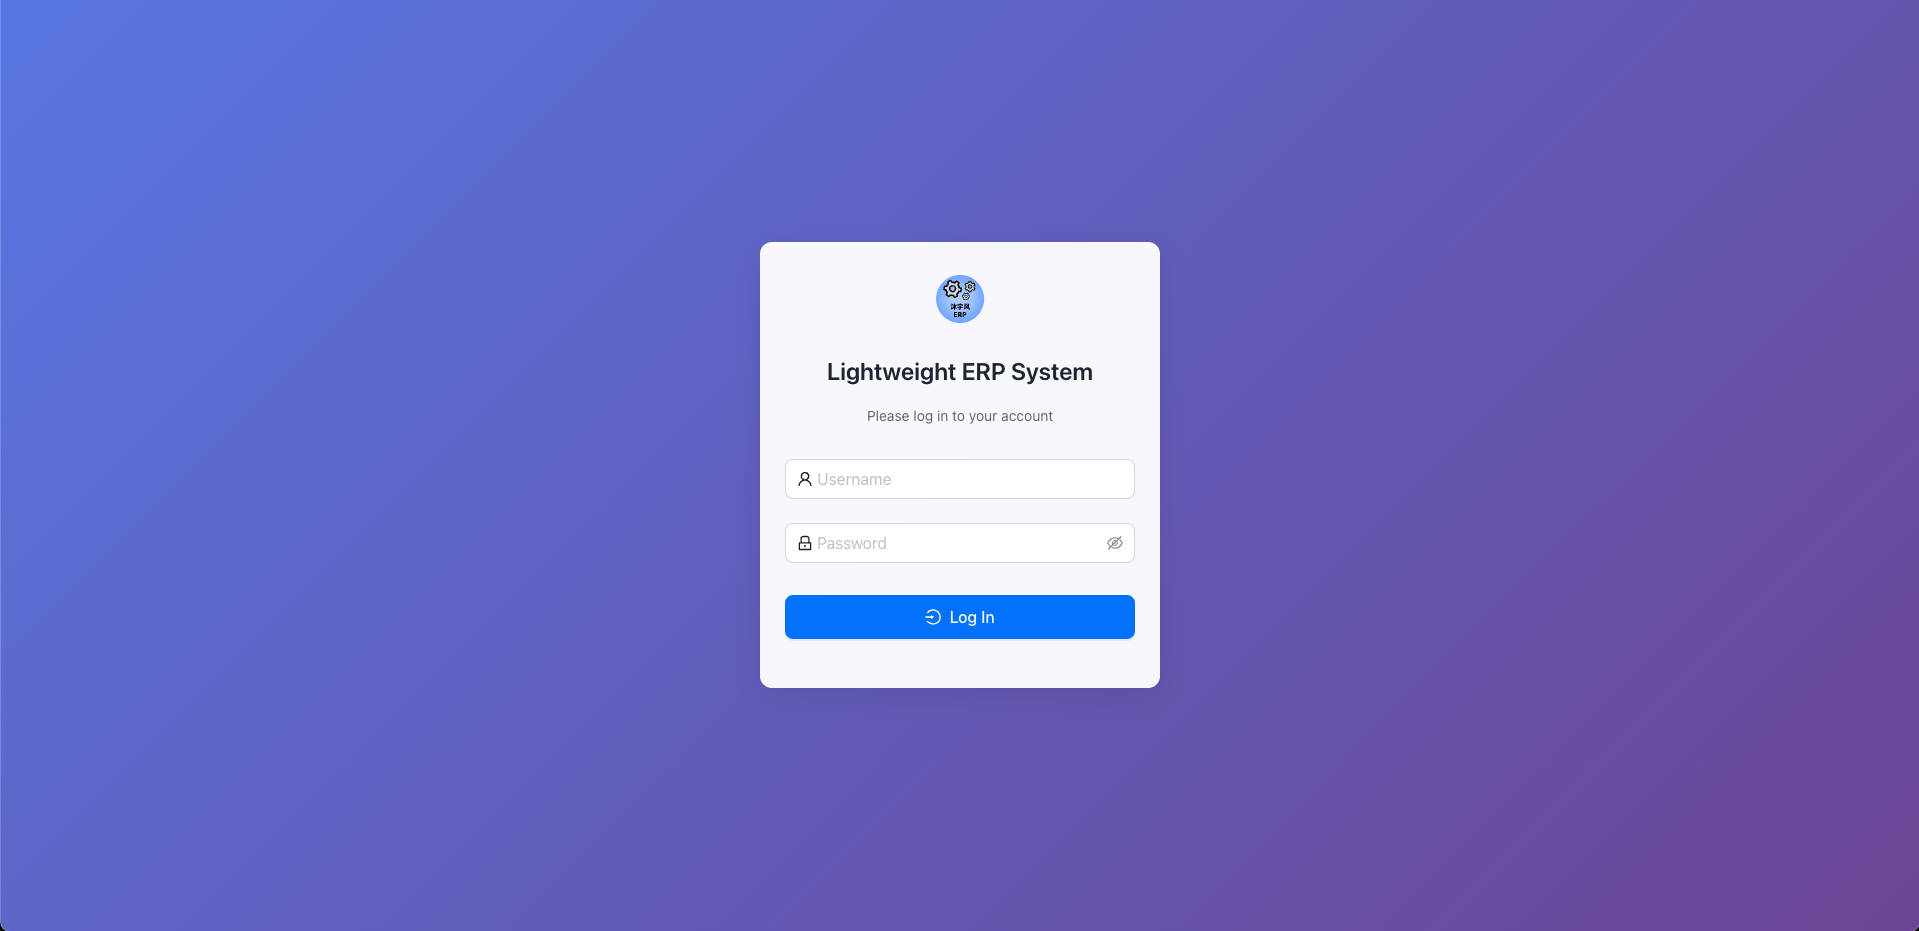
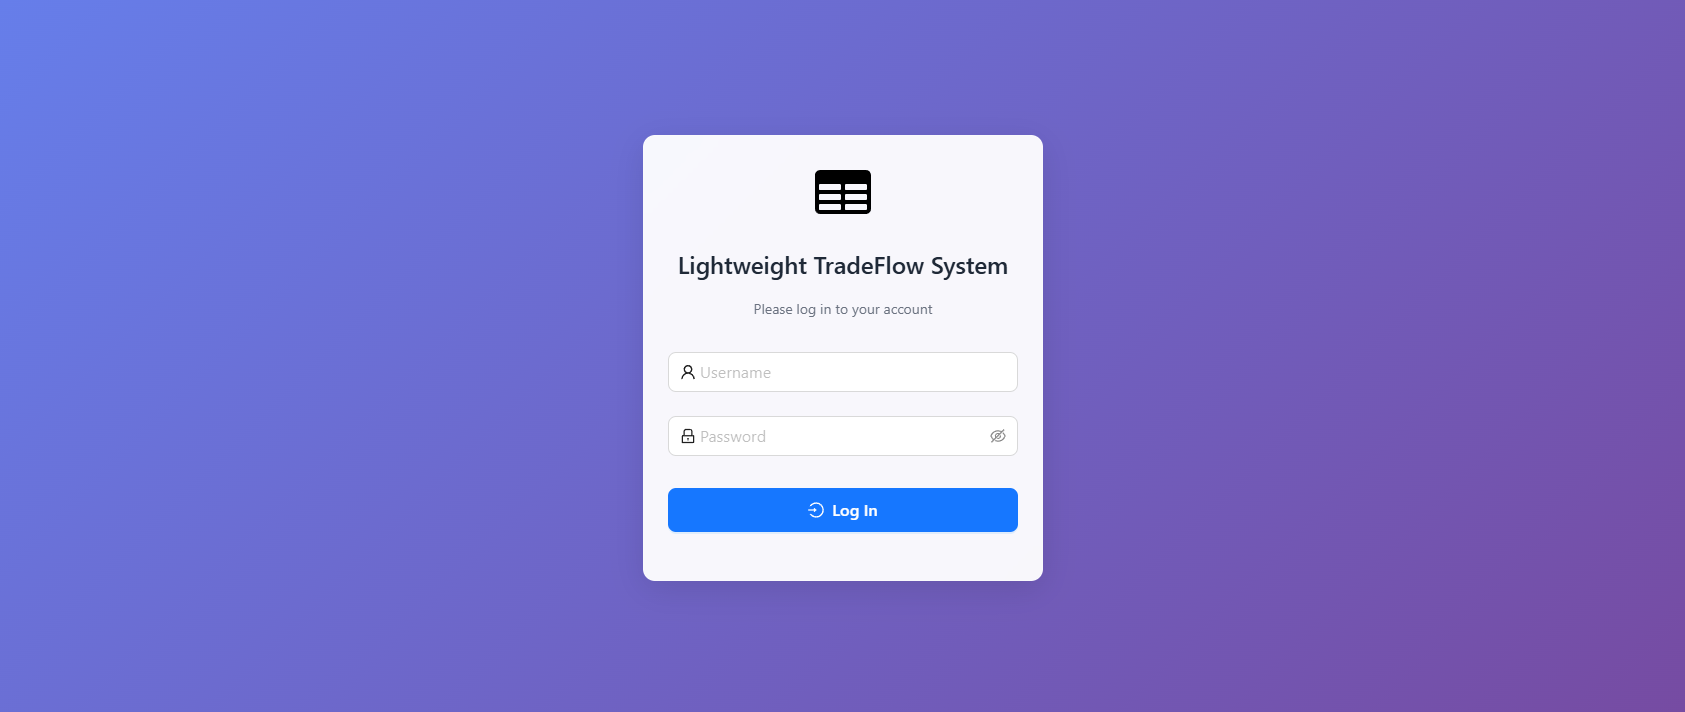
docs: updated a screenshot

Changed region(s): [[0.3703, 0.1854, 0.6172, 0.8343]]

diff --git a/README.md b/README.md
@@ -28,7 +28,7 @@ The system was developed in a Chinese-language environment and extensively utili
 
 ## Demo
 This is the detailed page for my demo link:
-[My DEMO](https://lihaozhe013.github.io/my-site/project/simple-erp-system.html)
+[My DEMO](https://lihaozhe013.github.io/my-site/project/tradeflow-core.html)
 
 ![1.png](./docs/images/1.png)
 
